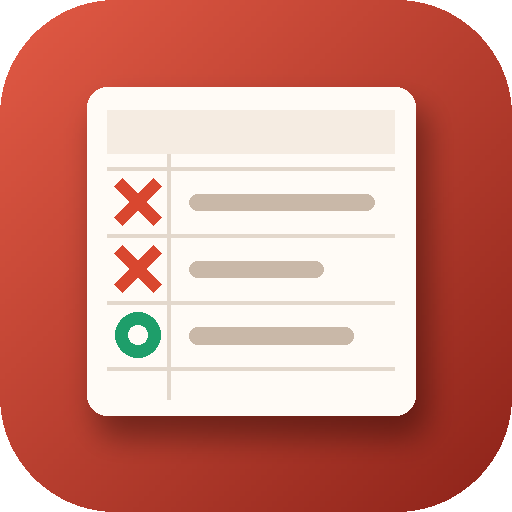
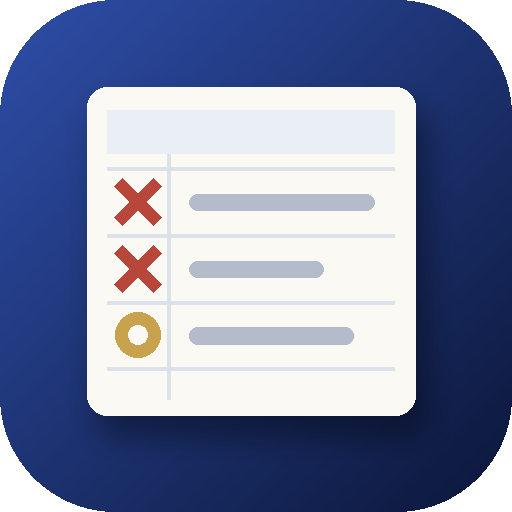
ミスマップ v5: 設定に使い方スライドと更新の履歴。配色を青系の落ち着いた色に。アイコンも紺に

diff --git a/missmap/index.html b/missmap/index.html
@@ -9,39 +9,42 @@
 <link rel="icon" href="icon-192.png">
 <meta name="apple-mobile-web-app-capable" content="yes">
 <meta name="apple-mobile-web-app-status-bar-style" content="default">
-<meta name="theme-color" content="#F7F5F2">
+<meta name="theme-color" content="#F2F4F8">
 <link rel="preconnect" href="https://fonts.googleapis.com">
 <link rel="preconnect" href="https://fonts.gstatic.com" crossorigin>
 <link rel="stylesheet" href="https://fonts.googleapis.com/css2?family=Klee+One:wght@400;600&display=swap">
 <style>
 :root{
-  --bg:#F7F5F2; --card:#FFFFFF; --ink:#22201E; --muted:#57514A; --line:#E6E0D8;
-  --accent:#D9472F; --accent-soft:#FBE7E3; --accent-ink:#FFFFFF;
-  --done:#1E9E6A; --done-soft:#E2F5EC;
-  --star:#C9982F; --star-soft:#FBF2DC;
-  --blue:#2C6FE4; --blue-soft:#E6EEFC;
-  --chip:#F0ECE6; --shadow:0 1px 3px rgba(60,40,20,.08); --shadow-lg:0 8px 24px rgba(60,40,20,.14);
-  --new:#E9640F; --navy1:#3B1F1A; --navy2:#7A2E24; --gold:#F5D08A;
+  --bg:#F2F4F8; --card:#FFFFFF; --ink:#141B2D; --muted:#5B6478; --line:#DCE1EA;
+  --accent:#233F8C; --accent-soft:#E8EDF8; --accent-ink:#FFFFFF;
+  --done:#2A8C6C; --done-soft:#E3F3EC;
+  --star:#B8923F; --star-soft:#F8F1DE;
+  --miss:#B9463A; --miss-soft:#F9E7E4;
+  --blue:#3A5BB5; --blue-soft:#E8EDF8;
+  --chip:#EAEEF5; --shadow:0 1px 2px rgba(20,30,60,.06), 0 4px 14px rgba(20,30,60,.06); --shadow-lg:0 10px 30px rgba(20,30,60,.16);
+  --new:#D97A2B; --navy1:#0F1A3A; --navy2:#26428F; --gold:#D9B96A;
 }
 @media (prefers-color-scheme: dark){
   :root:not([data-theme="light"]){
-    --bg:#191614; --card:#231F1C; --ink:#F1ECE6; --muted:#BAB1A7; --line:#3A332E;
-    --accent:#F07A66; --accent-soft:#4A2620; --accent-ink:#1A100E;
-    --done:#4FCB98; --done-soft:#1B3A2E;
-    --star:#E4BC63; --star-soft:#3A2E18;
-    --blue:#6FA4F5; --blue-soft:#23324B;
-    --chip:#2E2925; --shadow:0 1px 3px rgba(0,0,0,.4); --shadow-lg:0 8px 24px rgba(0,0,0,.5);
-    --new:#FF9450;
+    --bg:#0F1524; --card:#182036; --ink:#E8ECF5; --muted:#9AA5BF; --line:#2A3450;
+    --accent:#7D9AE8; --accent-soft:#213059; --accent-ink:#0B1226;
+    --done:#5CC49C; --done-soft:#1B3A2E;
+    --star:#DDBB66; --star-soft:#3A3018;
+    --miss:#E88A7E; --miss-soft:#3E2523;
+    --blue:#5D7CD6; --blue-soft:#213059;
+    --chip:#222C45; --shadow:0 1px 3px rgba(0,0,0,.4); --shadow-lg:0 8px 24px rgba(0,0,0,.5);
+    --new:#F0A05A; --navy1:#0B1230; --navy2:#1E3577; --gold:#E4C77A;
   }
 }
 :root[data-theme="dark"]{
-  --bg:#191614; --card:#231F1C; --ink:#F1ECE6; --muted:#BAB1A7; --line:#3A332E;
-  --accent:#F07A66; --accent-soft:#4A2620; --accent-ink:#1A100E;
-  --done:#4FCB98; --done-soft:#1B3A2E;
-  --star:#E4BC63; --star-soft:#3A2E18;
-  --blue:#6FA4F5; --blue-soft:#23324B;
-  --chip:#2E2925; --shadow:0 1px 3px rgba(0,0,0,.4); --shadow-lg:0 8px 24px rgba(0,0,0,.5);
-  --new:#FF9450;
+  --bg:#0F1524; --card:#182036; --ink:#E8ECF5; --muted:#9AA5BF; --line:#2A3450;
+  --accent:#7D9AE8; --accent-soft:#213059; --accent-ink:#0B1226;
+  --done:#5CC49C; --done-soft:#1B3A2E;
+  --star:#DDBB66; --star-soft:#3A3018;
+  --miss:#E88A7E; --miss-soft:#3E2523;
+  --blue:#5D7CD6; --blue-soft:#213059;
+  --chip:#222C45; --shadow:0 1px 3px rgba(0,0,0,.4); --shadow-lg:0 8px 24px rgba(0,0,0,.5);
+  --new:#F0A05A; --navy1:#0B1230; --navy2:#1E3577; --gold:#E4C77A;
 }
 *{box-sizing:border-box; margin:0; padding:0; -webkit-tap-highlight-color:transparent;}
 html{-webkit-text-size-adjust:100%;}
@@ -57,7 +60,7 @@ button:disabled{opacity:.45; pointer-events:none;}
 
 header.app{position:sticky; top:0; z-index:30; background:var(--bg); padding:calc(10px + env(safe-area-inset-top)) 2px 8px;}
 .title-row{display:flex; align-items:center; gap:8px; padding:0 2px 2px;}
-.title-row h1{font-size:19px; font-weight:600; letter-spacing:.02em;}
+.title-row h1{font-size:20px; font-weight:600; letter-spacing:.06em;}
 .title-row .ver{font-size:11px; color:var(--muted); font-weight:600;}
 .title-row .spacer{flex:1;}
 .icon-btn{width:38px; height:38px; border-radius:12px; background:var(--card); border:1px solid var(--line); display:grid; place-items:center; box-shadow:var(--shadow);}
@@ -71,7 +74,7 @@ header.app{position:sticky; top:0; z-index:30; background:var(--bg); padding:cal
 .update .t span{font-size:11px; opacity:.9; font-weight:600;}
 .update .go{background:rgba(255,255,255,.22); border-radius:999px; padding:7px 13px; font-size:13px; font-weight:600; flex:none;}
 
-.card{background:var(--card); border:1px solid var(--line); border-radius:16px; box-shadow:var(--shadow); padding:14px; margin-bottom:10px;}
+.card{background:var(--card); border:1px solid var(--line); border-radius:18px; box-shadow:var(--shadow); padding:14px; margin-bottom:10px;}
 .card h3{font-size:15px; font-weight:600; margin-bottom:8px; display:flex; align-items:center; gap:8px;}
 .card h3 svg{width:20px; height:20px; stroke:var(--accent); fill:none; stroke-width:2.2; stroke-linecap:round; stroke-linejoin:round;}
 .card p{font-size:15px; line-height:1.85;}
@@ -81,7 +84,7 @@ header.app{position:sticky; top:0; z-index:30; background:var(--bg); padding:cal
 .sec-label .spacer{flex:1;}
 .sec-label .lnk{font-size:12px; color:var(--accent); font-weight:600;}
 
-.hero{background:linear-gradient(135deg,var(--navy1),var(--navy2)); color:#fff; border-radius:18px; padding:16px 16px 14px; box-shadow:var(--shadow-lg); margin-bottom:12px; display:flex; align-items:center; gap:14px; flex-wrap:wrap;}
+.hero{background:linear-gradient(135deg,var(--navy1) 0%,var(--navy2) 100%); border:1px solid rgba(217,185,106,.35); color:#fff; border-radius:18px; padding:16px 16px 14px; box-shadow:var(--shadow-lg); margin-bottom:12px; display:flex; align-items:center; gap:14px; flex-wrap:wrap;}
 .hero .big{width:100%; margin-top:8px; background:var(--gold); color:var(--navy1); border-radius:14px; padding:14px; font-size:18px; font-weight:600; display:flex; align-items:center; justify-content:center; gap:8px; box-shadow:0 4px 14px rgba(0,0,0,.25);}
 .hero .big svg{width:22px; height:22px; stroke:var(--navy1); fill:none; stroke-width:2.8; stroke-linecap:round; stroke-linejoin:round;}
 .empty .btn-primary{margin-top:12px;}
@@ -130,7 +133,7 @@ header.app{position:sticky; top:0; z-index:30; background:var(--bg); padding:cal
 .empty p{font-size:13.5px; color:var(--muted); line-height:1.75;}
 
 /* タブ */
-nav.tabs{position:fixed; left:0; right:0; bottom:0; z-index:40; background:var(--card); border-top:1px solid var(--line); display:flex; padding:6px 8px calc(6px + env(safe-area-inset-bottom));}
+nav.tabs{position:fixed; left:0; right:0; bottom:0; z-index:40; background:color-mix(in srgb, var(--card) 88%, transparent); backdrop-filter:blur(14px); -webkit-backdrop-filter:blur(14px); border-top:1px solid var(--line); display:flex; padding:6px 8px calc(6px + env(safe-area-inset-bottom));}
 nav.tabs button{flex:1; display:flex; flex-direction:column; align-items:center; gap:2px; padding:6px 0 4px; border-radius:12px; position:relative;}
 nav.tabs svg{width:23px; height:23px; stroke:var(--muted); fill:none; stroke-width:2; stroke-linecap:round; stroke-linejoin:round;}
 nav.tabs span{font-size:11px; font-weight:600; color:var(--muted);}
@@ -142,7 +145,7 @@ nav.tabs .badge{position:absolute; top:2px; right:22%; min-width:18px; height:18
 /* フォーム */
 .field{background:var(--card); border:1px solid var(--line); border-radius:14px; padding:10px 13px; margin-bottom:10px; box-shadow:var(--shadow);}
 .field label{display:block; font-size:13px; font-weight:600; color:var(--muted); letter-spacing:.04em; margin-bottom:3px;}
-.field label b{color:var(--accent); font-weight:600; margin-left:4px;}
+.field label b{color:var(--miss); font-weight:600; margin-left:4px;}
 .field input[type=text], .field textarea{width:100%; background:transparent; border:none; font-size:16px; line-height:1.6; resize:none; outline:none;}
 .field input::placeholder, .field textarea::placeholder{color:var(--muted); opacity:.75;}
 .field.req{border-color:var(--accent); border-width:1.5px;}
@@ -152,9 +155,9 @@ nav.tabs .badge{position:absolute; top:2px; right:22%; min-width:18px; height:18
 .sub-in .chips{margin:2px 0 4px;}
 .pv{background:var(--accent-soft); border-radius:10px; padding:8px 10px; font-size:15px; line-height:1.6; margin-top:8px; font-weight:600;}
 .pv.off{opacity:.55; font-weight:400;}
-.err{background:var(--accent); color:#fff; border-radius:10px; padding:9px 12px; font-size:14px; line-height:1.65; margin-top:8px; white-space:pre-wrap;}
+.err{background:var(--miss); color:#fff; border-radius:10px; padding:9px 12px; font-size:14px; line-height:1.65; margin-top:8px; white-space:pre-wrap;}
 .err b{font-weight:600; display:block;}
-.field.bad{border-color:var(--accent); box-shadow:0 0 0 3px var(--accent-soft);}
+.field.bad{border-color:var(--miss); box-shadow:0 0 0 3px var(--miss-soft);}
 .field .hint{font-size:13px; color:var(--muted); line-height:1.6; margin-top:6px; padding-top:6px; border-top:1px dashed var(--line);}
 .chips{display:flex; flex-wrap:wrap; gap:7px;}
 .chip{background:var(--chip); border:1.5px solid transparent; border-radius:999px; padding:7px 14px; font-size:14px; font-weight:600; color:var(--ink);}
@@ -175,7 +178,7 @@ nav.tabs .badge{position:absolute; top:2px; right:22%; min-width:18px; height:18
 .or::before, .or::after{content:''; flex:1; height:1px; background:var(--line);}
 .btn-primary{width:100%; background:var(--accent); color:var(--accent-ink); border-radius:16px; padding:15px; font-size:17px; font-weight:600; box-shadow:var(--shadow-lg);}
 .btn-line{width:100%; background:var(--card); border:1.5px solid var(--line); border-radius:14px; padding:12px; font-size:14px; font-weight:600; color:var(--ink); margin-top:8px;}
-.btn-line.danger{color:var(--accent); border-color:var(--accent-soft);}
+.btn-line.danger{color:var(--miss); border-color:var(--miss-soft);}
 .btn-chip{background:var(--chip); border-radius:12px; padding:11px 14px; font-size:14px; font-weight:600; display:flex; align-items:center; gap:6px; justify-content:center;}
 .btn-chip svg{width:18px; height:18px; stroke:currentColor; fill:none; stroke-width:2.2; stroke-linecap:round; stroke-linejoin:round;}
 .btn-chip.acc{background:var(--accent-soft); color:var(--accent);}
@@ -213,8 +216,8 @@ nav.tabs .badge{position:absolute; top:2px; right:22%; min-width:18px; height:18
 .log{font-size:13px; color:var(--muted); margin-top:8px; line-height:1.8;}
 .log b{font-weight:600;}
 .log .ok{color:var(--done);}
-.log .ng{color:var(--accent);}
-.judge{position:fixed; left:0; right:0; bottom:0; z-index:8; background:var(--bg); border-top:1px solid var(--line); padding:10px 14px calc(12px + env(safe-area-inset-bottom));}
+.log .ng{color:var(--miss);}
+.judge{position:fixed; left:0; right:0; bottom:0; z-index:8; background:color-mix(in srgb, var(--bg) 90%, transparent); backdrop-filter:blur(14px); -webkit-backdrop-filter:blur(14px); border-top:1px solid var(--line); padding:10px 14px calc(12px + env(safe-area-inset-bottom));}
 .judge .inner{max-width:560px; margin:0 auto; display:grid; grid-template-columns:1fr 1fr; gap:10px;}
 .judge button{border-radius:16px; padding:15px 10px; font-size:17px; font-weight:600; display:flex; align-items:center; justify-content:center; gap:6px; box-shadow:var(--shadow-lg);}
 .judge svg{width:22px; height:22px; fill:none; stroke-width:2.8; stroke-linecap:round; stroke-linejoin:round;}
@@ -222,8 +225,8 @@ nav.tabs .badge{position:absolute; top:2px; right:22%; min-width:18px; height:18
 .judge .reveal svg{stroke:var(--accent-ink);}
 .judge .ok{background:var(--done); color:#fff;}
 .judge .ok svg{stroke:#fff;}
-.judge .ng{background:var(--accent-soft); color:var(--accent); border:1.5px solid var(--accent);}
-.judge .ng svg{stroke:var(--accent);}
+.judge .ng{background:var(--miss-soft); color:var(--miss); border:1.5px solid var(--miss);}
+.judge .ng svg{stroke:var(--miss);}
 .judge .mast{grid-column:1/-1; background:var(--star-soft); color:var(--star); border:1.5px solid var(--star); box-shadow:none;}
 .judge .hint{grid-column:1/-1; text-align:center; font-size:13px; color:var(--muted); font-weight:600; margin-top:-2px;}
 .prog{font-size:12px; color:var(--muted); font-weight:600; text-align:center; margin:-2px 0 8px;}
@@ -267,6 +270,30 @@ nav.tabs .badge{position:absolute; top:2px; right:22%; min-width:18px; height:18
 .mrow .g .v.q img{width:44px; height:44px; border-radius:8px; object-fit:cover; flex:none; background:var(--chip);}
 .mrow.mast{opacity:.8;}
 .mlist{display:flex; flex-direction:column; gap:8px;}
+
+/* 使い方スライド */
+.slides{position:relative; margin:0 -14px;}
+.sl-track{display:flex; overflow-x:auto; scroll-snap-type:x mandatory; gap:10px; padding:0 14px 6px; scroll-padding:0 14px; scrollbar-width:none; -webkit-overflow-scrolling:touch;}
+.sl-track::-webkit-scrollbar{display:none;}
+.sl{flex:none; width:100%; scroll-snap-align:start; background:linear-gradient(160deg,var(--navy1),var(--navy2)); color:#fff; border-radius:20px; padding:20px 18px 18px; min-height:290px; display:flex; flex-direction:column; box-shadow:var(--shadow-lg); border:1px solid rgba(217,185,106,.3);}
+.sl .no{font-size:12px; font-weight:600; color:var(--gold); letter-spacing:.12em; margin-bottom:8px;}
+.sl .pic{width:52px; height:52px; border-radius:16px; background:rgba(255,255,255,.1); display:grid; place-items:center; margin-bottom:12px;}
+.sl .pic svg{width:28px; height:28px; stroke:var(--gold); fill:none; stroke-width:2; stroke-linecap:round; stroke-linejoin:round;}
+.sl h4{font-size:19px; font-weight:600; margin-bottom:8px; letter-spacing:.03em;}
+.sl p{font-size:14.5px; line-height:1.85; opacity:.92;}
+.sl p b{color:var(--gold); font-weight:600;}
+.sl .ex{margin-top:auto; padding-top:10px; font-size:13px; line-height:1.7; color:rgba(255,255,255,.75); border-top:1px dashed rgba(255,255,255,.25);}
+.sl-nav{display:flex; align-items:center; justify-content:center; gap:14px; margin-top:10px;}
+.sl-nav .dots{gap:6px;}
+.sl-nav .dots i{width:7px; height:7px; border:none; background:var(--line);}
+.sl-nav .dots i.on{background:var(--accent); width:18px; border-radius:4px;}
+.sl-nav button{width:38px; height:38px; border-radius:50%; background:var(--chip); display:grid; place-items:center;}
+.sl-nav button svg{width:18px; height:18px; stroke:var(--ink); fill:none; stroke-width:2.4; stroke-linecap:round; stroke-linejoin:round;}
+.sheet .slides{margin:0;}
+.sheet .sl-track{padding:0 0 6px;}
+.changes{margin-top:6px;}
+.changes .c{display:grid; grid-template-columns:44px 1fr; gap:8px; font-size:13.5px; line-height:1.7; padding:5px 0; border-top:1px dashed var(--line);}
+.changes .c b{font-weight:600; color:var(--accent);}
 
 /* 設定 */
 .steps{margin:6px 0 0 20px; font-size:14px; line-height:1.9;}
@@ -320,6 +347,12 @@ nav.tabs .badge{position:absolute; top:2px; right:22%; min-width:18px; height:18
 
   <section id="tab-Set" class="hidden">
     <div class="card">
+      <h3><svg viewBox="0 0 24 24"><rect x="3" y="5" width="18" height="13" rx="2.5"/><path d="M8 21h8"/><path d="m10 9 5 2.5-5 2.5z"/></svg>使い方</h3>
+      <div class="dim" style="margin-bottom:10px">横にめくって読めます。最初に一度、全部見てください。</div>
+      <div id="setSlides"></div>
+    </div>
+
+    <div class="card">
       <h3><svg viewBox="0 0 24 24"><circle cx="12" cy="12" r="9.5"/><path d="M12 8v4l2.5 2.5"/></svg>問題が届く間隔</h3>
       <div class="dim" style="margin-bottom:8px">「言えた」から数えて、何日後にまた届くか。5回つづけて言えたら「極まった」になります。</div>
       <div class="gaps" id="gaps"></div>
@@ -365,6 +398,8 @@ nav.tabs .badge{position:absolute; top:2px; right:22%; min-width:18px; height:18
       <h3><svg viewBox="0 0 24 24"><path d="M20 12a8 8 0 1 1-2.3-5.7"/><path d="M20 4v5h-5"/></svg>更新</h3>
       <div class="kv"><span>いまのバージョン</span><b id="verNow"></b></div>
       <button class="btn-line" id="btnCheckUpd">更新があるか調べる</button>
+      <div class="dim" style="margin-top:12px; font-weight:600">更新の履歴</div>
+      <div class="changes" id="changes"></div>
     </div>
 
     <div class="card">
@@ -398,7 +433,7 @@ nav.tabs .badge{position:absolute; top:2px; right:22%; min-width:18px; height:18
 
 <script>
 /* ===================== 基本 ===================== */
-const VER = 4;
+const VER = 5;
 const KEY = 'miss_v1', BK = 'miss_backup';
 const $ = s => document.querySelector(s);
 const $$ = s => Array.from(document.querySelectorAll(s));
@@ -1009,6 +1044,8 @@ function renderSet(){
   });
   $('#tgRandMast').classList.toggle('on', S.cfg.randMast);
   $('#verNow').textContent = 'v'+VER;
+  if(!$('#setSlides').innerHTML) renderSlides();
+  renderChanges();
   $('#cntAll').textContent = S.items.length+'問（極まった '+mastered().length+'）';
   countImgs().then(n => { $('#cntImg').textContent = n+'枚'; });
 }
@@ -1068,8 +1105,59 @@ $('#btnWipe').onclick = async () => {
   urlCache.clear(); renderAll(); renderSet(); toast('すべて消しました');
 };
 
-/* ===================== 使い方 ===================== */
+/* ===================== 使い方（スライド）と更新の履歴 =====================
+   ルール: 機能を変えたら、ここ（SLIDES）と CHANGES を必ず同じ更新で直す。 */
+const SLIDES = [
+  { ico:'doc', t:'ミスマップとは', p:'同じミスを<b>二度としない</b>ための道具です。紙のミスマップ（日付・ミス内容・間違えた理由・改善点・解き直し）を、そのままアプリにしました。', ex:'ここに入れるのは「知っていたのに間違えた問題」。覚えていなかっただけの問題は、暗記で解決します。' },
+  { ico:'camera', t:'1. 問題を作る', p:'「作る」タブで、ミスした問題を<b>写真</b>に撮るか、<b>文字</b>で入れます。教科を選びます。', ex:'写真は何枚でも。問題・自分の答え・解説をまとめて撮っておくと、あとで見返しやすいです。' },
+  { ico:'why', t:'2. 間違えた理由', p:'「<b>何をした／しなかった</b>」を書きます。「そのとき何が起きた」は任意です。', ex:'例：問題文の「合計」を読み飛ばした → 片方だけ計算して答えた' },
+  { ico:'fix', t:'3. 改善点は3つに分けて', p:'「<b>いつ</b>・<b>何を</b>・<b>どうする</b>」で書くと、1文に組み上がります。「気をつける」「見直す」のように行動になっていないと、登録できません。', ex:'例：解き終わったら、代入した式の符号を、指でさして元の式と見くらべる' },
+  { ico:'redo', t:'4. 問題が届く', p:'登録した問題は、<b>翌日・3日後・1週間後・2週間後・1か月後</b>に「今日の問題」として届きます。「解く」タブの上の大きなボタンから始めます。', ex:'やり残しは消えず、次の日に繰り越されます。' },
+  { ico:'eye', t:'5. 問題だけを見て言う', p:'問題だけを見て、「なぜ間違えたか」「次はどうするか」を<b>自分の口で言って</b>から、「答え合わせ」で登録した内容と比べます。', ex:'言えた → 次の間隔へ。5回つづけて言えたら「極まった」。言えなかった → 翌日からやり直し。' },
+  { ico:'shuffle', t:'6. ランダムに解く', p:'予定に関係なく、3・5・10問を練習できます。ランダムのときは「言えなかった」だけ記録され、「言えた」は予定を変えません。', ex:'間隔をあけて覚える仕組みを崩さないためです。' },
+  { ico:'chart', t:'7. ミスマップを見る', p:'教科別の件数と、ミスの種類別の件数（<b>ミスパターン分析</b>）が自動でたまります。いちばん多い種類が、あなたのミスのクセです。', ex:'そのクセの改善点を、ほかの問題にも使ってみてください。' },
+  { ico:'save', t:'8. データと控え', p:'写真も記録も、この端末の中だけに保存されます。設定の「控え」から、ときどきファイルに残してください。', ex:'iPhone の「ショートカット」で毎朝自動で開く設定も、設定にあります。' },
+];
+const CHANGES = [
+  { v:5, d:'9/13', t:'使い方スライドと更新の履歴を設定に追加。配色を青系に。' },
+  { v:4, d:'9/13', t:'改善点を「いつ・何を・どうする」で書く形に。行動になっていない改善点は登録できない。大きな「今日の問題を解く」ボタン。' },
+  { v:3, d:'9/13', t:'文字を少し太く・大きく。' },
+  { v:2, d:'9/13', t:'書体を Klee One に。' },
+  { v:1, d:'9/13', t:'はじめての公開。' },
+];
+const SICO = {
+  doc: ICO.doc, camera: ICO.camera, redo: ICO.redo, eye: ICO.eye, shuffle: ICO.shuffle,
+  why: '<svg viewBox="0 0 24 24"><circle cx="12" cy="12" r="9.5"/><path d="M9.5 9.5a2.5 2.5 0 1 1 3.6 2.2c-.8.4-1.1.9-1.1 1.8"/><circle cx="12" cy="17" r=".6" fill="currentColor"/></svg>',
+  fix: '<svg viewBox="0 0 24 24"><path d="M4 20h4l10-10-4-4L4 16z"/><path d="m12.5 7.5 4 4"/></svg>',
+  chart: '<svg viewBox="0 0 24 24"><path d="M3 20h18"/><rect x="5" y="11" width="3.5" height="9"/><rect x="10.25" y="6" width="3.5" height="14"/><rect x="15.5" y="14" width="3.5" height="6"/></svg>',
+  save: '<svg viewBox="0 0 24 24"><path d="M4 16v3a2 2 0 0 0 2 2h12a2 2 0 0 0 2-2v-3"/><path d="M12 3v12"/><path d="m7.5 10.5 4.5 4.5 4.5-4.5"/></svg>',
+};
+function slidesHtml(){
+  return `<div class="slides"><div class="sl-track">${SLIDES.map((sl, i) => `<div class="sl"><div class="no num">${i+1} / ${SLIDES.length}</div><div class="pic">${SICO[sl.ico]||''}</div><h4>${sl.t}</h4><p>${sl.p}</p>${sl.ex ? `<div class="ex">${sl.ex}</div>` : ''}</div>`).join('')}</div>
+    <div class="sl-nav"><button class="prev">${ICO.back}</button><span class="dots">${SLIDES.map((_, i) => `<i class="${i?'':'on'}"></i>`).join('')}</span><button class="next"><svg viewBox="0 0 24 24"><path d="m9 6 6 6-6 6"/></svg></button></div></div>`;
+}
+function bindSlides(root){
+  const track = root.querySelector('.sl-track'), dots = root.querySelectorAll('.sl-nav .dots i');
+  let idx = 0;
+  const step = () => track.children[0].offsetWidth + 10;
+  const mark = () => dots.forEach((d, k) => d.classList.toggle('on', k === idx));
+  const go = i => { idx = Math.max(0, Math.min(SLIDES.length-1, i)); mark(); track.scrollTo({ left:idx * step(), behavior:'smooth' }); };
+  let st = null;
+  track.addEventListener('scroll', () => { clearTimeout(st); st = setTimeout(() => { idx = Math.round(track.scrollLeft / step()); mark(); }, 80); }, { passive:true });
+  root.querySelector('.sl-nav .prev').onclick = () => go(idx-1);
+  root.querySelector('.sl-nav .next').onclick = () => go(idx+1);
+}
+function renderSlides(){ const box = $('#setSlides'); box.innerHTML = slidesHtml(); bindSlides(box); }
+function renderChanges(){ $('#changes').innerHTML = CHANGES.map(c => `<div class="c"><b class="num">v${c.v}</b><span>${esc(c.t)}</span></div>`).join(''); }
 function openHelp(){
+  const bg = document.createElement('div'); bg.className = 'sheet-bg';
+  bg.innerHTML = `<div class="sheet"><div class="grab"></div><h2>ミスマップの使い方</h2>${slidesHtml()}<button class="close">閉じる</button></div>`;
+  document.body.appendChild(bg);
+  bindSlides(bg);
+  bg.querySelector('.close').onclick = () => bg.remove();
+  bg.addEventListener('click', e => { if(e.target === bg) bg.remove(); });
+}
+function openHelpOld(){
   const bg = document.createElement('div'); bg.className = 'sheet-bg';
   bg.innerHTML = `<div class="sheet"><div class="grab"></div><h2>ミスマップの使い方</h2>
     <p>紙のミスマップ（日付・ミス内容・間違えた理由・改善点・解き直し）をアプリにしたものです。目的は同じで、<b>同じミスを二度としない</b>こと。</p>

diff --git a/missmap/sw.js b/missmap/sw.js
@@ -2,7 +2,7 @@
    方針:「ネットワーク優先」。まずネットから最新をとり、とれたものをキャッシュに控える。
    ネットがないときだけキャッシュで動く。キャッシュを先に見る方式にすると
    「直したのに古い画面が出る」事故になるので、ぜったいにしない。 */
-const VER = 'mm-v4';
+const VER = 'mm-v5';
 self.addEventListener('install', e => self.skipWaiting());
 self.addEventListener('activate', e => {
   e.waitUntil((async () => {

diff --git a/tools/missmap-icon.py b/tools/missmap-icon.py
@@ -1,7 +1,7 @@
 # ミスマップのアイコン: 紙の表に赤い✕と、それを消す緑の○
 from PIL import Image, ImageDraw, ImageFilter
-BG1=(0xE2,0x5A,0x45); BG2=(0x8E,0x24,0x1A)
-PAPER=(0xFF,0xFB,0xF6); RULE=(0xE3,0xD8,0xCC); RED=(0xD9,0x47,0x2F); GREEN=(0x1E,0x9E,0x6A); INK=(0x3B,0x1F,0x1A)
+BG1=(0x2E,0x4E,0xA8); BG2=(0x0C,0x17,0x3A)
+PAPER=(0xFB,0xF9,0xF3); RULE=(0xDD,0xE1,0xEA); RED=(0xB9,0x46,0x3A); GREEN=(0xC9,0xA2,0x4E); INK=(0x14,0x1B,0x2D)
 def grad(size):
     g=Image.new('RGB',(96,96)); px=g.load()
     for y in range(96):
@@ -21,20 +21,20 @@ def make(S, maskable=False):
     # 影
     sh=Image.new('L',(S,S),0); ImageDraw.Draw(sh).rounded_rectangle([P(190,210),P(830,850)],radius=int(k(40)),fill=110)
     sh=sh.filter(ImageFilter.GaussianBlur(k(28)))
-    lay=Image.composite(Image.new('RGBA',(S,S),(60,10,5,255)),lay,sh); L=ImageDraw.Draw(lay)
+    lay=Image.composite(Image.new('RGBA',(S,S),(5,10,30,255)),lay,sh); L=ImageDraw.Draw(lay)
     # 紙
     L.rounded_rectangle([P(170,170),P(810,810)],radius=int(k(40)),fill=PAPER+(255,))
     # 表の線
     for y in (330,460,590,720): L.line([P(210,y),P(770,y)],fill=RULE+(255,),width=int(k(8)))
     L.line([P(330,300),P(330,780)],fill=RULE+(255,),width=int(k(8)))
-    L.rectangle([P(210,215),P(770,300)],fill=(0xF5,0xEC,0xE2,255))
+    L.rectangle([P(210,215),P(770,300)],fill=(0xEA,0xEE,0xF5,255))
     # 1列目に ✕（赤）、2列目に改善の線
     def cross(cx,cy,r,col,w):
         L.line([P(cx-r,cy-r),P(cx+r,cy+r)],fill=col+(255,),width=int(k(w)))
         L.line([P(cx+r,cy-r),P(cx-r,cy+r)],fill=col+(255,),width=int(k(w)))
     cross(270,395,38,RED,26); cross(270,525,38,RED,26)
     for y,wd in ((395,360),(525,260),(655,320)):
-        L.rounded_rectangle([P(370,y-16),P(370+wd,y+16)],radius=int(k(16)),fill=(0xC9,0xB8,0xA8,255))
+        L.rounded_rectangle([P(370,y-16),P(370+wd,y+16)],radius=int(k(16)),fill=(0xB4,0xBC,0xCC,255))
     # 3行目は緑の○（極まった）
     L.ellipse([P(270-44,655-44),P(270+44,655+44)],outline=GREEN+(255,),width=int(k(26)))
     img=Image.alpha_composite(img,lay)
